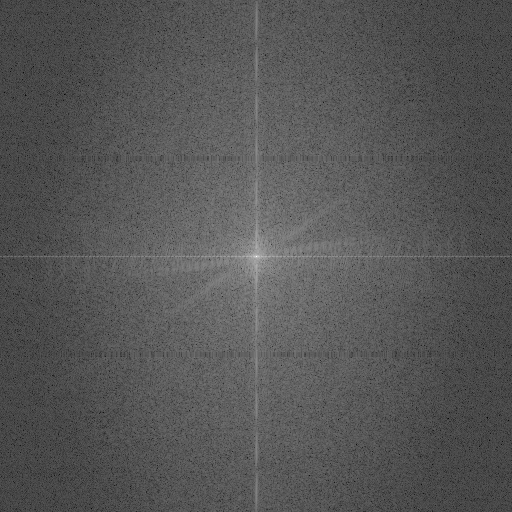
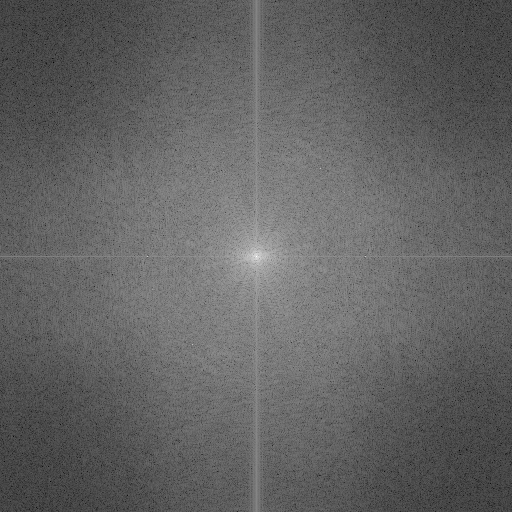
finalized

diff --git a/part1/watermark.cpp b/part1/watermark.cpp
@@ -20,10 +20,10 @@
 using namespace std;
 
 double PI = 3.14159;
-int l = 10;
+int l = 20;
 double r = 110.0;
 double alpha = 10.0;
-double t = 0.4;
+double t = -0.5;
 
 // This code requires that input be a *square* image, and that each dimension
 //  is a power of 2; i.e. that input.width() == input.height() == 2^k, where k
@@ -184,16 +184,20 @@ SDoublePlane mark_image(const SDoublePlane &input_image, int N)
 	SDoublePlane fft_imaginary(input_image.rows(), input_image.cols());
 	fft(input_image,fft_real,fft_imaginary);
 	
+	//double part = r/(l/2);
+	//int x,y;
 	for(int i=0;i<l/2;i++)
     	{
-        	float theta=(float)(i+1)*(360.0/l);
+		//y = part*i;
+		//x = (int)sqrt(r*r-y*y);
+        	float theta=(float)(i)*(360.0/l);
 		int x= (int)(r* cos((theta*PI)/180));
         	int y= (int)(r* sin((theta*PI)/180));
-		fft_real[cx+x][cy+y] = fft_real[cx+x][cy+y] + alpha*abs(fft_real[cx+x][cy+y])*v[i];
-		fft_real[cx-x][cy-y] = fft_real[cx-x][cy-y] + alpha*abs(fft_real[cx-x][cy-y])*v[i];
+		fft_real[cx+x][cy+y] = fft_real[cx+x][cy+y] + alpha*fabs(fft_real[cx+x][cy+y])*v[i];
+		fft_real[cx-x][cy-y] = fft_real[cx-x][cy-y] + alpha*fabs(fft_real[cx-x][cy-y])*v[i];
 		
-		fft_real[cx+x][cy-y] = fft_real[cx+x][cy-y] + alpha*abs(fft_real[cx+x][cy-y])*v[i+(l/2)];
-		fft_real[cx-x][cy+y] = fft_real[cx-x][cy+y] + alpha*abs(fft_real[cx-x][cy+y])*v[i+(l/2)];
+		fft_real[cx+x][cy-y] = fft_real[cx+x][cy-y] + alpha*fabs(fft_real[cx+x][cy-y])*v[i+(l/2)];
+		fft_real[cx-x][cy+y] = fft_real[cx-x][cy+y] + alpha*fabs(fft_real[cx-x][cy+y])*v[i+(l/2)];
 
 		//fft_real[cx+x][cy+y] = fft_real[cx-x][cy-y] = fft_real[cx+x][cy-y] = fft_real[cx-x][cy+y] = 20.0;
 	}
@@ -224,7 +228,7 @@ SDoublePlane mark_image(const SDoublePlane &input_image, int N)
 
 double getMean(double array[], int size)
 {
-         double sum = 0;
+         double sum = 0.0;
          for(int i = 0; i < size; i++)
          {
              sum += array[i];
@@ -237,16 +241,15 @@ double getStDDev(double array[], int size)
 {
     double mean = getMean(array,size);
     
-    double sum=0;
+    double sum = 0.0;
     for(int i = 0; i < size; i++)
     {
         sum += (array[i]-mean)*(array[i]-mean);
     }
-
     return sqrt(sum / size);
 }
 
-double getCovariance(double a[],double b[],double size)
+double getCovariance(double a[],double b[],int size)
 {
     double mean1 = getMean(a,size);
     double mean2 = getMean(b,size);
@@ -260,7 +263,7 @@ double getCovariance(double a[],double b[],double size)
 }
 
 
-double getCorrelation(double a[], double b[], double size)
+double getCorrelation(double a[], double b[],int size)
 {
     return (getCovariance(a,b,size)/(getStDDev(a,size)*getStDDev(b,size)));
 }
@@ -284,7 +287,7 @@ bool check_image(const SDoublePlane &input_image, int N)
     
     	for(int i=0;i<l/2;i++)
 	{
-        	float theta = (float)(i+1)*(360.0/l);
+        	float theta = (float)(i)*(360.0/l);
        		int x = r* cos((theta*PI)/180);
         	int y = r* sin((theta*PI)/180);
 
@@ -395,6 +398,24 @@ int main(int argc, char **argv)
 				SDoublePlane output_image(input_image.rows(), input_image.cols());
 				output_image = mark_image(input_image,N);
 				SImageIO::write_png_file(outputFile.c_str(),output_image,output_image,output_image);
+
+				/*int fp;
+				int total=0;
+				srand(time(NULL));
+				for(int i=0;i<10;i++) //10 runs
+				{
+					fp=0;
+            				int random = rand();
+					output_image = mark_image(input_image,random);
+					for(int j=0;j<100;j++)
+					{
+						if(check_image(output_image,rand()%1000))
+                                        		fp++;
+					}
+            				cout<<"i:"<<i+1<< ", N:"<<random<<", FP:"<<(double)fp/100<<endl;
+					total += fp;
+				}
+				cout<<total/(100.0*10)<<endl;*/
 	  		}
 			else if(op == "check")
 	  		{
